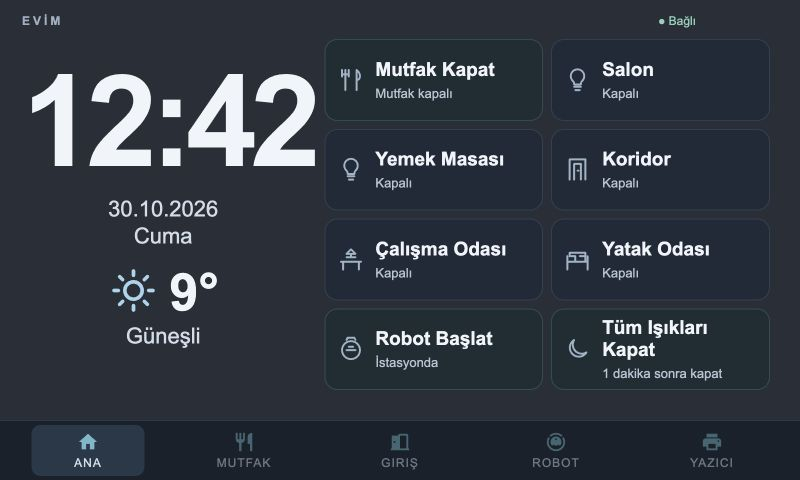
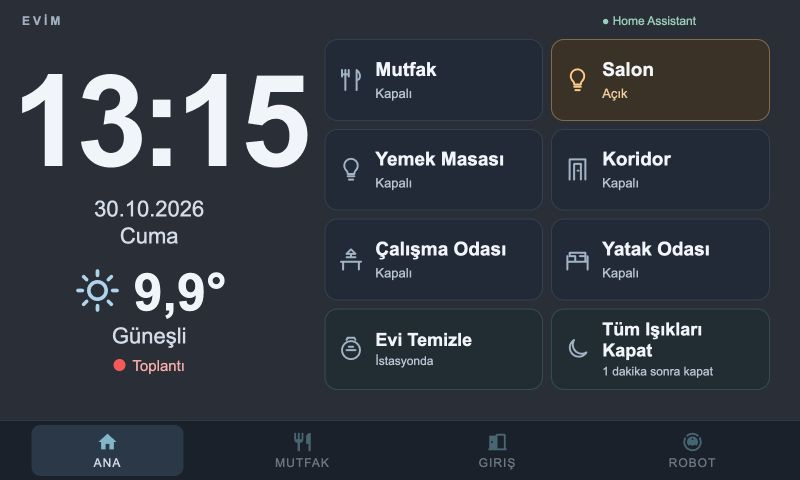
Refine touch controls, light settings, and panel startup

diff --git a/examples/panel-v2/panel.js b/examples/panel-v2/panel.js
@@ -6,7 +6,19 @@
     if (!cfg || !C || !home || document.getElementById('panel-v2')) { return; }
     var cache = {}, versions = {}, cards = [], busy = {}, listeners = window.entityListeners || {};
     var snapshotNeeded = false, connectionGeneration = 0;
-    var modalIds = [], focusBeforeDialog = null, noticeTimer, modal;
+    var modalIds = [], focusBeforeDialog = null, noticeTimer, modal, keyboardInput = false;
+    document.addEventListener('keydown',function(ev){if(ev.keyCode===9){keyboardInput=true;document.body.classList.add('pv2-keyboard');}},true);
+    function pointerInput(){keyboardInput=false;document.body.classList.remove('pv2-keyboard');}
+    document.addEventListener('touchstart',pointerInput,true);
+    document.addEventListener('mousedown',pointerInput,true);
+    var soundEnabled=false,audio=null;
+    try{soundEnabled=localStorage.getItem('panel-v2-click-sound')==='on';}catch(ignore){}
+    function clickSound(){
+      if(!soundEnabled){return;}
+      try{var Audio=window.AudioContext||window.webkitAudioContext;if(!Audio){return;}audio=audio||new Audio();if(audio.state==='suspended'&&audio.resume){audio.resume();}
+        var osc=audio.createOscillator(),gain=audio.createGain(),now=audio.currentTime;osc.type='sine';osc.frequency.setValueAtTime(950,now);osc.frequency.exponentialRampToValueAtTime(480,now+0.025);gain.gain.setValueAtTime(0.035,now);gain.gain.exponentialRampToValueAtTime(0.001,now+0.035);osc.connect(gain);gain.connect(audio.destination);osc.start(now);osc.stop(now+0.04);osc.onended=function(){osc.disconnect();gain.disconnect();};
+      }catch(ignore){/* Older browsers remain silent without blocking controls. */}
+    }
     var paths = {
       bulb:'M9 18h6m-5 3h4M8 13a6 6 0 1 1 8 0c-1 1-1 2-1 3H9c0-1 0-2-1-3Z',
       kitchen:'M4 3v6m3-6v6m3-6v6M4 7h6M7 9v12M17 3v18m0-18c4 3 4 9 0 9',
@@ -54,11 +66,11 @@
       var item={button:b,label:label,status:state,options:options};cards.push(item);
       C.bindPress(b,function(){
         if (b.disabled) { return; }
+        clickSound();
         if (options.kind==='robot') { var robot=C.robot(get(cfg.vacuum)); if(robot.service){perform('robot','vacuum',robot.service,cfg.vacuum);} }
         else if(options.kind==='alloff'){toggleCountdown();}
-        else if(options.kind==='kitchen'){perform('kitchen','light','turn_off',supported(options.ids));}
         else{toggle(options.ids);}
-      },options.ids && options.kind!=='kitchen'?function(){openDialog(options.label,options.ids);}:null);
+      },options.ids?function(){clickSound();openDialog(options.label,options.ids);}:null);
       return item;
     }
     document.body.classList.add('panel-v2');
@@ -72,16 +84,14 @@
     weatherMain.appendChild(weatherIcon);weatherMain.appendChild(temperature);weather.appendChild(weatherMain);weather.appendChild(condition);overview.appendChild(weather);
     var meeting=node('div','pv2-meeting');meeting.innerHTML='<span class="pv2-meeting-dot"></span>Toplantı';overview.appendChild(meeting);
     body.appendChild(overview);body.appendChild(controls);root.appendChild(body);home.appendChild(root);
-    addCard(controls,{label:'Mutfak Kapat',ids:[cfg.lights.counter,cfg.lights.sink],icon:'kitchen',kind:'kitchen',action:true});
+    addCard(controls,{label:'Mutfak',ids:[cfg.lights.counter,cfg.lights.sink],icon:'kitchen'});
     addCard(controls,{label:'Salon',ids:[cfg.lights.living],icon:'bulb'});
     addCard(controls,{label:'Yemek Masası',ids:[cfg.lights.dining],icon:'bulb'});
     addCard(controls,{label:'Koridor',ids:[cfg.lights.front,cfg.lights.rear],icon:'corridor'});
     addCard(controls,{label:'Çalışma Odası',ids:[cfg.lights.office],icon:'desk'});
     addCard(controls,{label:'Yatak Odası',ids:[cfg.lights.bedroom],icon:'bed'});
-    addCard(controls,{label:'Robot Başlat',icon:'robot',kind:'robot',action:true});
+    addCard(controls,{label:'Evi Temizle',icon:'robot',kind:'robot',action:true});
     addCard(controls,{label:'Tüm Işıkları Kapat',icon:'moon',kind:'alloff',action:true});
-    var banner=node('button');banner.id='pv2-countdown';banner.type='button';banner.setAttribute('aria-live','polite');document.body.appendChild(banner);
-    banner.addEventListener('click',function(){if(get(cfg.countdown).state==='on'){toggleCountdown();}},false);
     var errorNotice=node('div');errorNotice.id='pv2-notice';errorNotice.setAttribute('role','status');document.body.appendChild(errorNotice);
     function toggleCountdown(){
       if(!C.available(get(cfg.countdown))){notice('Geri sayım servisine ulaşılamıyor.');return;}
@@ -105,8 +115,12 @@
     }
     modal=node('div','pv2-modal');modal.setAttribute('role','dialog');modal.setAttribute('aria-modal','true');modal.setAttribute('aria-labelledby','pv2-dialog-title');
     var dialog=node('div','pv2-dialog'), header=node('div','pv2-dialog-header'), dialogTitle=node('h2');dialogTitle.id='pv2-dialog-title';
-    var close=node('button','pv2-close','Kapat');close.type='button';header.appendChild(dialogTitle);header.appendChild(close);dialog.appendChild(header);
-    var settings=node('div');dialog.appendChild(settings);dialog.appendChild(node('p','pv2-dialog-hint','Parlaklığı ayarlayın veya bir renk seçin.'));modal.appendChild(dialog);document.body.appendChild(modal);
+    var close=node('button','pv2-close','Kapat');close.type='button';
+    var sound=node('button','pv2-sound');sound.type='button';
+    function soundLabel(){setText(sound,'Ses: '+(soundEnabled?'Açık':'Kapalı'));sound.setAttribute('aria-pressed',soundEnabled?'true':'false');sound.title='Düğme tıklama sesi';}
+    soundLabel();sound.addEventListener('click',function(){soundEnabled=!soundEnabled;try{localStorage.setItem('panel-v2-click-sound',soundEnabled?'on':'off');}catch(ignore){}soundLabel();clickSound();},false);
+    var headerActions=node('div','pv2-dialog-actions');headerActions.appendChild(sound);headerActions.appendChild(close);header.appendChild(dialogTitle);header.appendChild(headerActions);dialog.appendChild(header);
+    var settings=node('div');dialog.appendChild(settings);modal.appendChild(dialog);document.body.appendChild(modal);
     close.addEventListener('click',closeDialog,false);
     modal.addEventListener('click',function(ev){if(ev.target===modal){closeDialog();}},false);
     modal.addEventListener('keydown',function(ev){
@@ -117,7 +131,7 @@
     modal.addEventListener('touchstart',function(ev){ev.stopPropagation();},false);
     modal.addEventListener('touchmove',function(ev){ev.stopPropagation();},false);
     modal.addEventListener('touchend',function(ev){ev.stopPropagation();},false);
-    function closeDialog(){modal.classList.remove('pv2-open');modalIds=[];if(focusBeforeDialog && document.body.contains(focusBeforeDialog)){focusBeforeDialog.focus();}}
+    function closeDialog(){var wasOpen=modal.classList.contains('pv2-open');modal.classList.remove('pv2-open');modalIds=[];if(wasOpen&&focusBeforeDialog&&document.body.contains(focusBeforeDialog)){if(keyboardInput){focusBeforeDialog.focus();}else if(document.activeElement&&document.activeElement.blur){document.activeElement.blur();}}}
     function openDialog(title, ids){
       focusBeforeDialog=document.activeElement;modalIds=ids.slice(0);setText(dialogTitle,title);settings.innerHTML='';
       for(var di=0;di<ids.length;di++){buildSettings(ids[di],ids.length>1);}
@@ -132,11 +146,11 @@
         input.type='range';input.min='1';input.max='100';input.step='1';input.value=String(Math.max(1,Math.round((a.brightness===undefined||a.brightness===null?255:a.brightness)/255*100)));input.setAttribute('aria-label',(cfg.labels&&cfg.labels[id]||'Lamba')+' parlaklık');
         input.id='pv2-dim-'+id.replace(/\./g,'-');label.htmlFor=input.id;output.textContent=input.value+'%';
         input.addEventListener('input',function(){setText(output,input.value+'%');},false);
-        input.addEventListener('change',function(){perform('dim:'+id,'light','turn_on',id,{brightness_pct:Number(input.value)});},false);
+        input.addEventListener('change',function(){clickSound();perform('dim:'+id,'light','turn_on',id,{brightness_pct:Number(input.value)});},false);
         row.appendChild(label);row.appendChild(input);row.appendChild(output);section.appendChild(row);
       }
       if(cap.temperature){
-        var temps=node('div','pv2-presets');
+        var temps=node('div','pv2-presets');section.appendChild(node('h3','pv2-presets-title','Beyaz tonları'));
         [{label:'Sıcak',k:2700,color:'#ffd18b'},{label:'Doğal',k:4000,color:'#fff0d9'},{label:'Soğuk',k:6500,color:'#dcecff'}].forEach(function(p){
           var k=Math.max(cap.min,Math.min(cap.max,p.k));
           var b=preset(p.label,p.color);b.setAttribute('aria-label',p.label+' beyaz');
@@ -144,16 +158,16 @@
         });section.appendChild(temps);
       }
       if(cap.rgb){
-        var colors=node('div','pv2-presets');
-        [{label:'Kırmızı',rgb:[255,55,55],color:'#ff5555'},{label:'Amber',rgb:[255,165,45],color:'#ffb64d'},{label:'Yeşil',rgb:[65,220,110],color:'#51d984'},{label:'Mavi',rgb:[65,135,255],color:'#679dff'}].forEach(function(p){
+        var colors=node('div','pv2-presets');section.appendChild(node('h3','pv2-presets-title','Renkler'));
+        [{label:'Kırmızı',rgb:[255,55,55],color:'#ff5555'},{label:'Amber',rgb:[255,165,45],color:'#ffb64d'},{label:'Yeşil',rgb:[65,220,110],color:'#51d984'},{label:'Mavi',rgb:[65,135,255],color:'#679dff'},{label:'Mor',rgb:[175,85,255],color:'#b278fa'},{label:'Pembe',rgb:[255,95,170],color:'#ff7db4'}].forEach(function(p){
           var b=preset(p.label,p.color);b.addEventListener('click',function(){selectPreset(colors,b);perform('color:'+id,'light','turn_on',id,{rgb_color:p.rgb});},false);colors.appendChild(b);
         });section.appendChild(colors);
       }
       if(!cap.dim&&!cap.temperature&&!cap.rgb){section.appendChild(node('p','pv2-dialog-hint','Bu lamba yalnızca aç/kapat destekliyor.'));}
       settings.appendChild(section);
     }
-    function preset(label,color){var b=node('button','pv2-preset');b.type='button';var dot=node('span','pv2-swatch');dot.style.backgroundColor=color;b.appendChild(dot);b.appendChild(document.createTextNode(label));return b;}
-    function selectPreset(parent,button){var all=parent.querySelectorAll('button');for(var i=0;i<all.length;i++){all[i].classList.remove('pv2-selected');all[i].setAttribute('aria-pressed','false');}button.classList.add('pv2-selected');button.setAttribute('aria-pressed','true');}
+    function preset(label,color){var b=node('button','pv2-preset');b.type='button';b.setAttribute('aria-pressed','false');var dot=node('span','pv2-swatch');dot.style.backgroundColor=color;b.appendChild(dot);b.appendChild(document.createTextNode(label));return b;}
+    function selectPreset(parent,button){clickSound();var all=parent.parentNode.querySelectorAll('.pv2-preset');for(var i=0;i<all.length;i++){all[i].classList.remove('pv2-selected');all[i].setAttribute('aria-pressed','false');}button.classList.add('pv2-selected');button.setAttribute('aria-pressed','true');}
     function drawCard(item){
       var o=item.options,b=item.button,label=o.label,detail='',on=false,unavailable=false,key=o.ids?o.ids.join(','):o.kind,disabled=!connection();
       if(o.kind==='robot'){var robot=C.robot(get(cfg.vacuum));label=robot.label;detail=robot.detail;on=get(cfg.vacuum).state==='cleaning';disabled=disabled||!robot.service;unavailable=!C.available(get(cfg.vacuum));}
@@ -165,19 +179,20 @@
         b.classList.toggle('pv2-counting',on);
       }else{
         var group=C.group(o.ids,cache);on=group.on>0;unavailable=group.ready===0;
-        if(unavailable){detail='Bağlantı yok';}else if(o.kind==='kitchen'){detail=on?'Tezgâh ve Lavabo':'Mutfak kapalı';}
+        if(unavailable){detail='Bağlantı yok';}
         else if(group.total===1){detail=on?'Açık':'Kapalı';}
         else{detail=group.on?group.on+'/'+group.total+' açık':'Kapalı';if(group.ready<group.total){detail+=' · eksik bağlantı';}}
-        disabled=disabled||unavailable;if(o.kind==='kitchen'){key='kitchen';}
+        disabled=disabled||unavailable;
       }
       b.disabled=disabled||!!busy[key];b.classList.toggle('pv2-on',on);b.classList.toggle('pv2-unavailable',unavailable);
-      setText(item.label,label);setText(item.status,busy[key]?'Gönderiliyor…':(!connection()?'Bağlantı yok':detail));
-      b.setAttribute('aria-label',label+' · '+detail);if(o.ids&&o.kind!=='kitchen'){b.setAttribute('aria-pressed',on?'true':'false');b.title='Dokun: aç/kapat · Uzun bas: lamba ayarları';}
+      b.classList.toggle('pv2-pending',!!busy[key]);b.setAttribute('aria-busy',busy[key]?'true':'false');
+      setText(item.label,label);setText(item.status,!connection()?'Bağlantı yok':detail);
+      b.setAttribute('aria-label',label+' · '+detail);if(o.ids){b.setAttribute('aria-pressed',on?'true':'false');b.title='Dokun: aç/kapat · Uzun bas: lamba ayarları';}
     }
     var conditions={'clear-night':'Açık gece','cloudy':'Bulutlu','exceptional':'Olağan dışı','fog':'Sisli','hail':'Dolu','lightning':'Şimşekli','lightning-rainy':'Gök gürültülü','partlycloudy':'Parçalı bulutlu','pouring':'Sağanak','rainy':'Yağmurlu','snowy':'Karlı','snowy-rainy':'Karla karışık','sunny':'Güneşli','windy':'Rüzgârlı','windy-variant':'Rüzgârlı'};
     var previousWeatherIcon='';
     function render(){
-      setText(status,connection()?'● Bağlı':'○ Bağlantı yok');status.style.color=connection()?'#9fd8c2':'#ffb4b4';
+      setText(status,connection()?'● Home Assistant':'○ Bağlantı yok');status.title=connection()?'Home Assistant bağlantısı açık':'Home Assistant bağlantısı kesildi';status.setAttribute('aria-label',status.title);status.style.color=connection()?'#9fd8c2':'#ffb4b4';
       for(var i=0;i<cards.length;i++){drawCard(cards[i]);}
       var entry=get(cfg.weather), t=entry.attributes.temperature;
       var valid=C.available(entry)&&t!==null&&t!==undefined&&t!==''&&isFinite(Number(t));
@@ -187,9 +202,7 @@
       if(weatherName!==previousWeatherIcon){weatherIcon.innerHTML=icon(weatherName);previousWeatherIcon=weatherName;}
       var callState=get(cfg.meeting), age=new Date().getTime()/1000-Number(callState.attributes.last_report_epoch||0);
       meeting.classList.toggle('pv2-active',connection()&&callState.state==='on'&&age>=-5&&age<40);
-      var running=get(cfg.countdown).state==='on',seconds=C.remaining(get(cfg.countdown),new Date().getTime());
-      banner.style.display=running?'block':'none';banner.disabled=!connection()||!!busy.countdown;
-      if(running){setText(banner,'Işıklar '+(seconds===null?'geri sayım sonunda':C.timeLabel(seconds)+' sonra')+' kapanacak · İptal'+(!connection()?' · Bağlantı yok':''));}
+
     }
     // HoaryDash's warming pool can replay an older initial snapshot. On each
     // connection, reconcile only our small entity set once (two requests at a
@@ -230,6 +243,7 @@
     window.addEventListener('screen-navigate',closeDialog,false);
     document.addEventListener('visibilitychange',function(){if(document.hidden){closeDialog();}},false);
     clockTick();setInterval(clockTick,1000);
+    clearTimeout(window.panelV2LoadingTimer);document.documentElement.classList.remove('pv2-loading');
   }
   if(document.readyState==='loading'){document.addEventListener('DOMContentLoaded',ready,false);}else{ready();}
 })();

diff --git a/examples/panel-v2/panel.css b/examples/panel-v2/panel.css
@@ -1,3 +1,5 @@
+.pv2-loading .screen,.pv2-loading .navbar-container { visibility:hidden !important; }
+.pv2-loading body:after { content:'Panel hazırlanıyor…'; position:fixed; top:0; right:0; bottom:0; left:0; z-index:999; display:-webkit-flex; display:flex; -webkit-align-items:center; align-items:center; -webkit-justify-content:center; justify-content:center; background:#171d27; color:#bac7d9; font:18px Arial,sans-serif; }
 /* Scoped, fixed-budget 800x480 touch UI. No blur, animation, framework, or webfont. */
 body.panel-v2 { background:#171d27; color:#f2f4f8; font-family:Arial,sans-serif; }
 .panel-v2 .screen { position:relative; transition:none !important; -webkit-transition:none !important; }
@@ -8,7 +10,7 @@ body.panel-v2 { background:#171d27; color:#f2f4f8; font-family:Arial,sans-serif;
 .pv2-brand { font-size:12px; font-weight:bold; letter-spacing:3px; color:#adb8c9; }
 .pv2-connection { font-size:12px; color:#9fd8c2; }
 .pv2-body { height:calc(100% - 25px); display:-webkit-flex; display:flex; }
-.pv2-overview { width:40%; padding-right:20px; text-align:center; display:-webkit-flex; display:flex; -webkit-flex-direction:column; flex-direction:column; -webkit-justify-content:center; justify-content:center; }
+.pv2-overview { position:relative; left:-10px; width:40%; padding-right:28px; text-align:center; display:-webkit-flex; display:flex; -webkit-flex-direction:column; flex-direction:column; -webkit-justify-content:center; justify-content:center; }
 .pv2-clock { font-size:128px; line-height:148px; font-weight:bold; letter-spacing:-7px; color:#f3f5fa; white-space:nowrap; }
 .pv2-date { font-size:22px; line-height:27px; color:#d8e0eb; }
 .pv2-weather { margin-top:13px; min-height:87px; }
@@ -39,7 +41,6 @@ body.panel-v2 { background:#171d27; color:#f2f4f8; font-family:Arial,sans-serif;
 .panel-v2 .navbar-item.active { background:#304052 !important; }
 .panel-v2 .navbar-label { font-size:12px !important; line-height:14px !important; margin-top:3px !important; letter-spacing:1px !important; color:#d9e2ef !important; }
 .panel-v2 .navbar-icon { font-size:22px !important; color:#9fc7dc !important; }
-#pv2-countdown { position:fixed; z-index:60; left:0; right:0; bottom:60px; height:28px; display:none; border:0; background:#49362c; color:#ffe1af; font:14px Arial,sans-serif; text-align:center; cursor:pointer; }
 #pv2-notice { position:fixed; z-index:110; left:15px; right:15px; bottom:92px; padding:10px 16px; background:#492e34; color:#ffdce0; border:1px solid #9a5966; border-radius:10px; font:16px Arial,sans-serif; display:none; text-align:center; pointer-events:none; }
 .panel-v2 .pv2-legacy-light { width:100%; height:100%; min-height:70px; margin:0; }
 .panel-v2 .pv2-legacy-host > *:not(.pv2-card) { display:none !important; }
@@ -52,18 +53,26 @@ body.panel-v2 { background:#171d27; color:#f2f4f8; font-family:Arial,sans-serif;
 .pv2-close { min-width:90px; min-height:46px; padding:8px 14px; border:1px solid #64758b; border-radius:10px; background:#34465c; color:white; font:18px Arial,sans-serif; }
 .pv2-light-settings { border-top:1px solid #3e4d61; margin-top:9px; padding-top:10px; }
 .pv2-light-settings h3 { margin:0 0 6px; font-size:17px; color:#cbd7e5; }
-.pv2-setting-row { display:-webkit-flex; display:flex; -webkit-align-items:center; align-items:center; margin:5px 0; }
-.pv2-setting-row label { min-width:85px; font-size:16px; }
-.pv2-setting-row output { width:52px; text-align:right; font-size:18px; }
-.pv2-setting-row input[type=range] { -webkit-appearance:none; appearance:none; height:44px; background:transparent; -webkit-flex:1; flex:1; min-width:0; margin:0 12px; }
-.pv2-setting-row input[type=range]::-webkit-slider-runnable-track { height:8px; background:#64758c; border-radius:4px; }
-.pv2-setting-row input[type=range]::-webkit-slider-thumb { -webkit-appearance:none; width:30px; height:30px; margin-top:-11px; border-radius:50%; background:#f3d19b; border:3px solid #202b3a; }
-.pv2-presets { display:-webkit-flex; display:flex; -webkit-flex-wrap:wrap; flex-wrap:wrap; margin:4px -3px; }
-.pv2-preset { min-width:78px; min-height:44px; margin:3px; padding:7px 11px; border:1px solid #61738a; border-radius:10px; background:#34465b; color:#f3f5fa; font:16px Arial,sans-serif; }
-.pv2-preset.pv2-selected { border:2px solid #ffe0a3; padding:6px 10px; }
-.pv2-swatch { display:inline-block; width:17px; height:17px; border-radius:50%; margin-right:6px; vertical-align:middle; border:1px solid rgba(255,255,255,.4); }
+.pv2-setting-row { display:-webkit-flex; display:flex; -webkit-flex-wrap:wrap; flex-wrap:wrap; -webkit-align-items:center; align-items:center; -webkit-justify-content:space-between; justify-content:space-between; margin:4px 0 12px; }
+.pv2-setting-row label { font-size:17px; color:#dbe3ef; }
+.pv2-setting-row output { font-size:25px; line-height:34px; font-weight:bold; color:#ffe1ab; -webkit-order:1; order:1; }
+.pv2-setting-row input[type=range] { -webkit-appearance:none; appearance:none; width:100%; height:48px; background:transparent; margin:5px 0 0; -webkit-order:2; order:2; }
+.pv2-setting-row input[type=range]::-webkit-slider-runnable-track { height:32px; background:linear-gradient(to right,#596475,#f1cc8e); border-radius:18px; border:1px solid #8593a6; }
+.pv2-setting-row input[type=range]::-webkit-slider-thumb { -webkit-appearance:none; width:44px; height:44px; margin-top:-7px; border-radius:50%; background:#fff3dc; border:3px solid #202b3a; box-shadow:0 2px 5px rgba(0,0,0,.4); }
+.pv2-presets { display:-webkit-flex; display:flex; -webkit-flex-wrap:wrap; flex-wrap:wrap; margin:0 -5px 5px; }
+.pv2-preset { width:76px; min-height:80px; margin:3px 5px; padding:5px 0; border:0; border-radius:13px; background:transparent; color:#dce5f0; font:14px Arial,sans-serif; text-align:center; -webkit-tap-highlight-color:transparent; }
+.pv2-preset:active { background:#354354; }
+.pv2-swatch { display:block; width:46px; height:46px; border-radius:50%; margin:3px auto 9px; border:1px solid rgba(255,255,255,.4); box-shadow:inset 0 2px 4px rgba(255,255,255,.25); }
+.pv2-preset.pv2-selected .pv2-swatch { outline:3px solid #f5f7fb; outline-offset:3px; }
+.pv2-preset.pv2-selected { color:white; font-weight:bold; }
+.pv2-dialog .pv2-presets-title { margin:5px 0; font-size:14px; color:#acbad0; font-weight:normal; }
+.pv2-dialog-actions { display:-webkit-flex; display:flex; -webkit-align-items:center; align-items:center; }
+.pv2-sound { min-height:46px; margin-right:10px; padding:8px 12px; border:1px solid #4b5e74; border-radius:10px; background:transparent; color:#c8d6e6; font:14px Arial,sans-serif; }
 .pv2-dialog-hint { margin:8px 0 0; color:#bac7d9; font-size:14px; line-height:20px; }
-.pv2-card:focus,.pv2-preset:focus,.pv2-close:focus,#pv2-countdown:focus { outline:2px solid #a9d8ee; outline-offset:2px; }
+/* Touch focus must not leave a selected-looking frame after closing a dialog.
+   Use an input-modality class rather than :focus-visible (unsupported in Chromium 44). */
+.pv2-card:focus,.pv2-preset:focus,.pv2-close:focus,.pv2-sound:focus { outline:none; }
+.pv2-keyboard .pv2-card:focus,.pv2-keyboard .pv2-preset:focus,.pv2-keyboard .pv2-close:focus,.pv2-keyboard .pv2-sound:focus { outline:2px solid #a9d8ee; outline-offset:2px; }
 @media (max-width:700px) { .pv2-clock { font-size:102px; } .pv2-card-label { font-size:17px; } .pv2-card svg { width:23px; margin-right:7px; } }
 /* Android's temporarily exposed system bar can reduce the WebView height. */
 @media (max-height:440px) {
@@ -77,4 +86,15 @@ body.panel-v2 { background:#171d27; color:#f2f4f8; font-family:Arial,sans-serif;
   .pv2-card { padding:6px 10px; }
   .pv2-card-label { font-size:17px; line-height:19px; }
   .pv2-card-state { font-size:12px; line-height:14px; margin-top:3px; }
+}
+
+.pv2-modal button { -webkit-tap-highlight-color:transparent; -webkit-user-select:none; user-select:none; }
+
+.pv2-card.pv2-pending svg { opacity:.45; }
+
+.pv2-card.pv2-action .pv2-card-label { font-size:18px; line-height:21px; }
+.pv2-card.pv2-action .pv2-card-state { margin-top:3px; font-size:12px; line-height:15px; }
+@media (max-height:440px) {
+  .pv2-card.pv2-action .pv2-card-label { font-size:17px; line-height:19px; }
+  .pv2-card.pv2-action .pv2-card-state { line-height:14px; }
 }

diff --git a/examples/panel-v2/core.js b/examples/panel-v2/core.js
@@ -25,10 +25,10 @@
   };
   api.robot = function (e) {
     if (!api.available(e)) { return {label: 'Robot', detail: 'Bağlantı yok', service: null}; }
-    if (e.state === 'cleaning' || e.state === 'paused') { return {label: 'Robot Bitir', detail: e.state === 'paused' ? 'Duraklatıldı · istasyona gönder' : 'Temizliyor · istasyona gönder', service: 'return_to_base'}; }
+    if (e.state === 'cleaning' || e.state === 'paused') { return {label: 'Temizliği Durdur', detail: 'İstasyona gönder', service: 'return_to_base'}; }
     if (e.state === 'returning') { return {label: 'Robot Dönüyor', detail: 'İstasyona dönüyor', service: null}; }
     if (e.state === 'error') { return {label: 'Robot', detail: 'Hata · Robot sekmesine bak', service: null}; }
-    return {label: 'Robot Başlat', detail: e.state === 'docked' ? 'İstasyonda' : 'Temizliğe hazır', service: 'start'};
+    return {label: 'Evi Temizle', detail: e.state === 'docked' ? 'İstasyonda' : 'Temizliğe hazır', service: 'start'};
   };
   api.timeLabel = function (seconds) { return ('0' + Math.floor(seconds / 60)).slice(-2) + ':' + ('0' + (seconds % 60)).slice(-2); };
   api.remaining = function (e, now) {

diff --git a/tools/install-panel-v2.py b/tools/install-panel-v2.py
@@ -25,11 +25,16 @@ def build_configuration(original, mapping, assets, dashboard='dash'):
     result = copy.deepcopy(original)
     panel = result['dashboards'][dashboard]
     assert any(screen['name'] == 'Ana' for screen in panel['screens']), 'Ana screen is required'
+    removed = mapping.get('removedScreens', [])
+    assert isinstance(removed, list) and 'Ana' not in removed, 'Ana cannot be removed'
+    panel['screens'] = [s for s in panel['screens'] if s['name'] not in removed]
     custom = panel['theme'].get('custom', '').split(BEGIN)[0].rstrip()
     css = (assets / 'panel.css').read_text()
     js = (assets / 'core.js').read_text() + '\n' + (assets / 'panel.js').read_text()
     config = json.dumps(mapping, ensure_ascii=False).replace('<', '\\u003c')
-    panel['theme']['custom'] = (custom + '\n' + BEGIN + '\n</style>\n<style>' + css
+    loading = ("<script>(function(){var d=document.documentElement;d.classList.add('pv2-loading');"
+               "window.panelV2LoadingTimer=setTimeout(function(){d.classList.remove('pv2-loading');},8000);})();</script>")
+    panel['theme']['custom'] = (custom + '\n' + BEGIN + '\n</style>\n' + loading + '\n<style>' + css
                                + '</style>\n<script>window.PANEL_V2_CONFIG=' + config + ';\n'
                                + js + '\n</script>\n<style>\n')
     # Reuse subscriptions already supplied by cards on any screen. Avoid adding

diff --git a/tests/panel-install.test.py b/tests/panel-install.test.py
@@ -36,6 +36,18 @@ class InstallationTests(unittest.TestCase):
         self.assertIn('light.example_printer_chamber', str(result))
         self.assertNotIn('light.example_printer_chamber', mapping['allLights'])
 
+    def test_removed_tab_is_not_a_swipe_destination_and_home_is_protected(self):
+        original = yaml.safe_load((ROOT / 'examples/hoarydash.example.yaml').read_text())
+        mapping = json.loads((ROOT / 'examples/panel-v2/config.example.json').read_text())
+        mapping['removedScreens'] = ['Yazıcı']
+        result = install.build_configuration(original, mapping, ROOT / 'examples/panel-v2')
+        names = [s['name'] for s in result['dashboards']['dash']['screens']]
+        self.assertNotIn('Yazıcı', names)
+        self.assertIn('Yazıcı', [s['name'] for s in original['dashboards']['dash']['screens']])
+        mapping['removedScreens'] = ['Ana']
+        with self.assertRaises(AssertionError):
+            install.build_configuration(original, mapping, ROOT / 'examples/panel-v2')
+
     def test_script_guards_empty_target_and_limits_household_lights(self):
         scripts = yaml.safe_load((ROOT / 'examples/panel-v2/lights-off-script.example.yaml').read_text())
         script = scripts['panel_lights_off_delayed']

diff --git a/docs/panel-v2.md b/docs/panel-v2.md
@@ -21,7 +21,7 @@ optional fresh meeting indicator. The right column has eight controls, in this r
 
 | Left | Right |
 | --- | --- |
-| Kitchen off | Living room |
+| Kitchen | Living room |
 | Dining table | Corridor |
 | Office | Bedroom |
 | Robot | All lights off |
@@ -32,20 +32,34 @@ Their behaviors are:
 - Corridor: turn both corridor lights off if either is on, otherwise both on.
   Hold to adjust the two lights individually.
 - Bedroom and office: tap to toggle; hold for settings.
-- Kitchen off: **counter and sink only**, excluding the dining table.
-- Robot: start when idle/docked, return to base when cleaning/paused; show returning
-  without offering another start. Unavailable/error states do not offer actions.
+- Kitchen: toggle **counter and sink only**, excluding the dining table. If either
+  light is on, turn both off; otherwise turn both on. Hold for individual settings.
+- Robot: **Evi Temizle** when idle, **Temizliği Durdur** when cleaning (returns to
+  base, including when paused). While returning, another start is not offered. Unavailable/error states do not offer actions.
 - All lights off: schedule a 60-second shutdown; tap again to cancel. The countdown
-  also has a cancel button above the navigation on every tab.
+  is displayed only on this Home button; there is no duplicate banner.
 
 The settings dialog only offers the capabilities the entity supports: brightness,
-three white-temperature presets within the device limits, and four RGB presets.
+three white-temperature presets within the device limits, and six large circular RGB presets.
+The brightness control has a large thumb and percentage readout. An optional
+**Ses: Kapalı / Açık** button in the dialog enables a quiet synthesized click; the
+preference is saved in this browser only, defaults off, and requires no audio files
+or microphone permission. Unsupported audio browsers remain silent.
+Touch focus rings clear when the dialog closes; keyboard Tab focus stays visible.
+The Home Assistant label at the top indicates the connection to HA.
 Sliders send a command on release/change, not on every movement. There are no
 chevrons under light buttons; long presses do not also toggle. A dragged/canceled
 touch does not act. Other tabs keep their existing layouts, using the same light
-cards and modal. Printer power remains a separate original control.
+cards and modal. Set `removedScreens` to a list of exact screen names in the private
+mapping to remove unwanted tabs, including their swipe destinations. The installer
+backs up their original definitions; `Ana` cannot be removed.
 
 The UI distinguishes unavailable devices and disconnected transport from "off".
+Pending actions keep their labels and state text stable, dim only the icon, and
+prevent duplicate taps until acknowledged. Failures still show a notice.
+A small pre-render gate hides the legacy screen until the overlay is ready, avoiding
+a flash of the old Home layout. An eight-second fallback releases it if initialization
+fails, so a JavaScript failure does not leave a permanent loading screen.
 No blur, continuous animation, framework, or extra state polling is introduced.
 Weather changes merge attributes; missing temperature is never replaced with zero.
 On connection/reconnection, a one-time targeted REST reconciliation avoids stale

diff --git a/README.md b/README.md
@@ -38,7 +38,10 @@ The current Home Assistant Android app does not support this Android version. Th
 The optional [Panel V2 guide](docs/panel-v2.md) adds eight Home controls, a larger
 weather readout, long-press brightness/color dialogs, grouped corridor control,
 robot return-to-base, and a server-side 60-second household-lights-off countdown
-with cancellation. Native battery long press and display helpers remain unchanged.
+with cancellation on its Home button. Kitchen toggles only counter/sink lights;
+large circular color presets and an optional quiet click improve touch controls.
+The guide includes current V2 browser captures and optional tab removal. Native
+battery long press and display helpers remain unchanged.
 
 ## Dashboard screenshots
 
